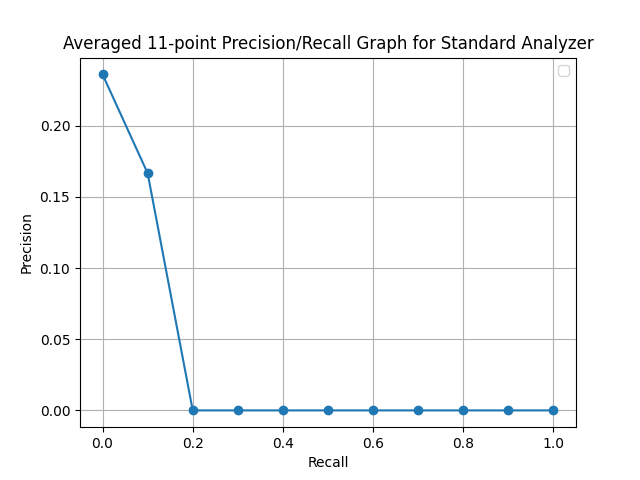
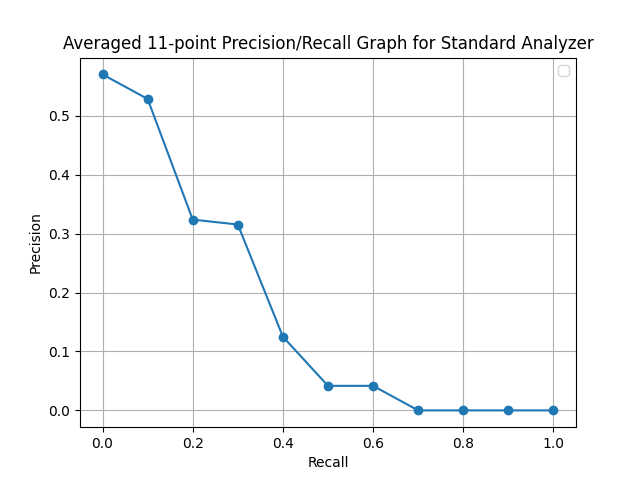
Fixed Wrong data input in the evaluation

diff --git a/Evaluation/EvaluationScript_old.py b/Evaluation/EvaluationScript_old.py
@@ -9,18 +9,18 @@ import numpy as np
 
 #Add queries here, in this format:
 
-query1 = [[184,2], [29,2], [31,2], [12,3], [51,3], [102,3], [13,4], [14,4], [15,4], [57,2], [378,2], [859,2], [185,3], [30,3], [37,3], [52,4], [142,4], [195,4], [875,2], [56,3], [66,3], [95,3], [462,4], [497,3], [858,3], [876,3], [879,3], [880,3], [486,1]]
-query2 = [[12,1], [15,2], [184,2], [858,2], [51,3], [102,3], [202,3], [14,4], [52,4], [380,4], [746,1], [859,2], [948,2], [285,3], [390,3], [391,3], [442,4], [497,3], [643,3], [856,3], [857,3], [877,3], [864,3], [658,3], [486,1]]
-query8 = [[236,3], [166,3], [488,1]]
-query10 = [[99,2], [115,3], [257,3], [258,3], [491,1]]
-query23 = [[86,2], [194,2], [650,2], [649,4], [652,2], [624,1]]
-query29 = [[463,1], [462,3], [497,1]]
-query39 = [[271,1], [16,2], [413,2], [414,3], [501,1]]
-query40 = [[68,1], [502,1]]
-query51 = [[145,1], [611,1], [376,2], [406,2], [565,2], [1076,2], [511,1]]
-query53 = [[224,3], [279,3], [512,1]]
-query157 = [[725,2], [728,2], [729,3], [911,3], [720,4], [75,4], [909,4], [640,1]]
-query225 = [[1076,1], [1077,3], [569,3], [572,3], [687,4], [655,3], [1062,1]]
+query1 = [[184,2], [29,2], [31,2], [12,3], [51,3], [102,3], [13,4], [14,4], [15,4], [57,2], [378,2], [859,2], [185,3], [30,3], [37,3], [52,4], [142,4], [195,4], [875,2], [56,3], [66,3], [95,3], [462,4], [497,3], [858,3], [876,3], [879,3], [880,3]]
+query2 = [[12,1], [15,2], [184,2], [858,2], [51,3], [102,3], [202,3], [14,4], [52,4], [380,4], [746,1], [859,2], [948,2], [285,3], [390,3], [391,3], [442,4], [497,3], [643,3], [856,3], [857,3], [877,3], [864,3], [658,3]]
+query8 = [[48,1], [122,1], [20,3], [58,3], [196,3], [354,1], [360,1], [197,3], [999,3], [1112,3], [1005,1]]
+query10 = [[259,2], [405,2], [302,3], [436,3], [437,3], [438,3], [998,3], [1011,3]]
+query23 = [[900,1], [902,1], [200,2], [201,2], [601,2], [899,3], [903,3], [593,3], [199,4], [594,4], [901,2], [544,2], [597,2], [749,3], [917,3], [919,3], [1333,4], [634,2], [687,2], [698,2], [1290,3], [700,2], [704,2], [705,2], [1109,2], [1112,2], [1141,2], [1197,2], [1256,2], [1259,2], [1272,2], [1289,2]]
+query29 = [[250,2], [514,2], [609,2], [225,3], [793,3], [464,4], [465,4], [612,2], [466,4]]
+query39 = [[272,1], [555,1], [24,2], [283,2], [552,2], [79,3], [207,3], [418,3], [557,4], [554,2], [556,2], [505,3], [1257,3]]
+query40 = [[24,2], [283,2], [552,2], [272,3], [85,3], [976,3], [557,4], [558,4], [553,2], [554,2], [555,2], [556,2]]
+query51 = [[94,1], [23,2], [105,2], [381,2], [192,3], [326,4], [63,4], [494,2], [629,2], [261,4]]
+query53 = [[33,3], [446,4], [447,4], [448,4], [449,4], [208,4], [297,4], [298,4], [299,4]]
+query157 = [[273,2], [1105,2], [1106,2], [93,3], [161,3], [302,3], [122,4], [666,4], [1107,2], [556,2], [25,2], [1011,3], [19,3], [35,3], [1355,4], [372,2], [410,2], [456,2], [36,3], [44,3], [215,3], [626,2], [1151,2], [354,3], [369,3], [370,3], [421,3], [557,3], [605,3], [655,3], [657,3], [689,3], [1307,3], [318,3], [423,3], [1304,3], [160,3], [482,3], [572,3]]
+query225 = [[1379,2], [1305,2], [1304,2], [40,3], [293,3], [1309,3], [161,4], [421,4], [1377,4], [1378,3], [1381,3], [225,3], [1380,4], [448,3], [449,3], [1124,3], [1280,3], [433,3], [923,3], [924,3], [1062,3], [1074,3], [1075,3], [1213,3]]
 
 #Add retrievec here
 retrieve1 = [[184,2], [13,2], [51,3], [12,3], [1268,3], [878,0], [486,0], [875,0], [1361,0], [588,0]]
@@ -39,6 +39,7 @@ retrieve10 = [[257,0], [491,0], [148,0], [544,0], [315,0], [386,0], [558,0], [12
 retrieve10STOP = [[491,0], [385,0], [386,0], [257,0], [271,0], [610,0], [1374,0], [142,0], [137,0], [418,0]]
 retrieve10WHITE = [[257,0], [491,0], [315,0], [544,0], [558,0], [121,0], [651,0], [817,0], [861,0], [228,0]]
 
+retrieve23ALT = [[892,0], [28,0], [1287,0], [718,0], [251,0], [1151,0], [911,0], [11,0], [385,0], [902,0]]
 retrieve23 = [[624,0], [650,0], [1232,0], [1223,0], [649,0], [543,0], [324,0], [678,0], [39,0], [982,0]]
 retrieve23STOP = [[624,0], [650,0], [1223,0], [1232,0], [649,0], [1164,0], [324,0], [86,0], [245,0], [592,0]]
 retrieve23WHITE = [[624,0], [1232,0], [1223,0], [543,0], [324,0], [39,0], [650,0], [982,0], [1305,0], [602,0]]
@@ -401,6 +402,17 @@ def EVALUATE (retrieve1, query1):
 #print (RecallTable(retrieved, relevant))
 
 #OUTPUT
+
+#For Query23
+print ('For Query23:')
+EVALUATE(retrieve23, query23)
+print('\n')
+
+#For Query23ALT
+print ('For Query23ALT:')
+EVALUATE(retrieve23ALT, query23)
+print('\n')
+
 
 
 #For All Queries:
